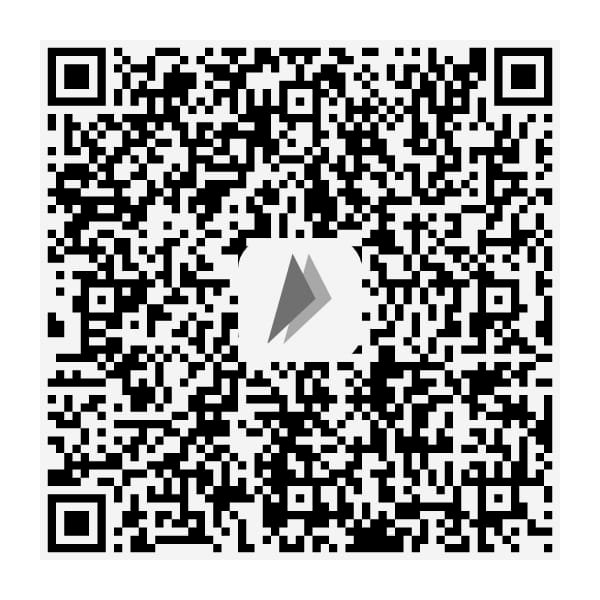
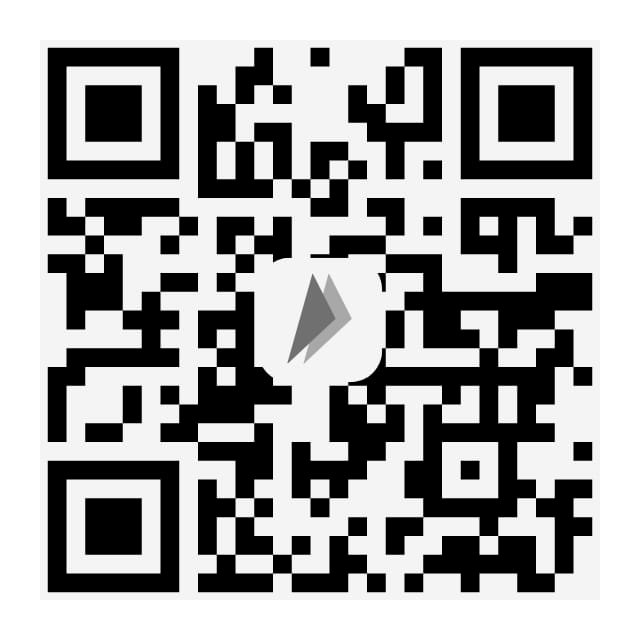
feat(monetization): separate open-amount chai QR from fixed ₹49 pro QR and add UPI tap-to-copy

diff --git a/lib/settings/settings_page.dart b/lib/settings/settings_page.dart
@@ -1,4 +1,5 @@
 import 'package:flutter/material.dart';
+import 'package:flutter/services.dart';
 import 'package:url_launcher/url_launcher.dart';
 import 'package:image_picker/image_picker.dart';
 import 'package:package_info_plus/package_info_plus.dart';
@@ -6,6 +7,7 @@ import 'package:package_info_plus/package_info_plus.dart';
 import '../core/constants.dart';
 import '../core/crash_reporter.dart';
 import '../core/di.dart';
+import '../core/haptics.dart';
 import '../editor/highlighting/syntax_themes.dart';
 import '../editor/keyboard_help_page.dart';
 import '../execution/termux_runner.dart';
@@ -738,6 +740,48 @@ class _SettingsPageState extends State<SettingsPage> {
                         width: 200,
                         height: 200,
                         fit: BoxFit.contain,
+                      ),
+                    ),
+                  ),
+                  InkWell(
+                    onTap: () async {
+                      Haptics.light();
+                      await Clipboard.setData(
+                        const ClipboardData(text: AppConstants.supportUpiId),
+                      );
+                      if (ctx.mounted) {
+                        ScaffoldMessenger.of(ctx).showSnackBar(
+                          const SnackBar(
+                            content: Text('UPI ID copied: ${AppConstants.supportUpiId}'),
+                            duration: Duration(seconds: 3),
+                          ),
+                        );
+                      }
+                    },
+                    borderRadius: BorderRadius.circular(10),
+                    child: Container(
+                      margin: const EdgeInsets.only(bottom: 12),
+                      padding: const EdgeInsets.symmetric(horizontal: 12, vertical: 6),
+                      decoration: BoxDecoration(
+                        color: const Color(0xFF21262D),
+                        borderRadius: BorderRadius.circular(10),
+                        border: Border.all(color: Colors.white12),
+                      ),
+                      child: const Row(
+                        mainAxisSize: MainAxisSize.min,
+                        children: [
+                          Text(
+                            'UPI: ${AppConstants.supportUpiId}',
+                            style: TextStyle(
+                              color: Colors.white,
+                              fontSize: 12,
+                              fontWeight: FontWeight.w600,
+                              fontFamily: 'monospace',
+                            ),
+                          ),
+                          SizedBox(width: 6),
+                          Icon(Icons.copy_rounded, size: 14, color: Colors.white54),
+                        ],
                       ),
                     ),
                   ),

diff --git a/test/support_dev_test.dart b/test/support_dev_test.dart
@@ -8,8 +8,9 @@ import 'package:shared_preferences/shared_preferences.dart';
 void main() {
   TestWidgetsFlutterBinding.ensureInitialized();
 
-  test('AppConstants has developer name for support', () {
+  test('AppConstants has developer name and upi for support', () {
     expect(AppConstants.supportDevName, 'Aditya');
+    expect(AppConstants.supportUpiId, 'bakadev@upi');
   });
 
   testWidgets('SettingsPage shows Support Developer tile and opens modal with clean QR only',
@@ -48,6 +49,7 @@ void main() {
 
     expect(find.text('Buy Aditya a Chai ☕'), findsOneWidget);
     expect(find.byType(Image), findsOneWidget);
+    expect(find.text('UPI: bakadev@upi'), findsOneWidget);
     expect(find.text('Scan with any UPI app to pay'), findsOneWidget);
     expect(find.text('Google Pay'), findsOneWidget);
     expect(find.text('PhonePe'), findsOneWidget);

diff --git a/lib/monetization/pro_paywall_sheet.dart b/lib/monetization/pro_paywall_sheet.dart
@@ -489,7 +489,7 @@ class UpiScanPaySheet extends StatelessWidget {
                       child: ClipRRect(
                         borderRadius: BorderRadius.circular(6),
                         child: Image.asset(
-                          'assets/images/support_qr.png',
+                          'assets/images/pro_qr.png',
                           width: 160,
                           height: 160,
                           fit: BoxFit.contain,

diff --git a/lib/core/constants.dart b/lib/core/constants.dart
@@ -46,6 +46,7 @@ class AppConstants {
   static const posixBashPath = '/bin/bash';
 
   static const supportDevName = 'Aditya';
+  static const supportUpiId = 'bakadev@upi';
   static const proPriceInr = 49;
   static const proUpiId = 'bakadev@upi';
   static const proPayeeName = 'Aditya';
